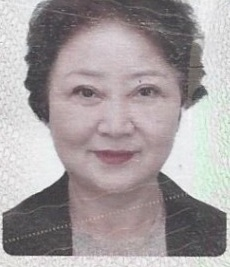
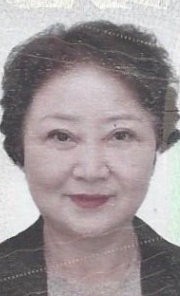
ech789

diff --git a/app/services/passport_portrait_service.py b/app/services/passport_portrait_service.py
@@ -8,6 +8,7 @@ import cv2
 
 from app.config import get_passport_portrait_output_dir
 from app.services.ocr_service import run_ocr_with_boxes
+from app.services.passport_face_match_service import detect_primary_face_bbox
 
 
 _FACE_CASCADE: Any | None = None
@@ -156,12 +157,23 @@ def _get_face_cascade():
 
 def preload_passport_portrait_runtime() -> None:
     _get_face_cascade()
+    try:
+        # Warm the YuNet detector used before the Haar fallback.
+        import numpy as np
+
+        detect_primary_face_bbox(np.zeros((640, 640, 3), dtype=np.uint8))
+    except Exception:
+        pass
 
 
 def _detect_face_candidates(
     image: Any,
     document_bbox: dict[str, int] | None = None,
 ) -> list[tuple[int, int, int, int]]:
+    yunet_faces = _detect_yunet_face_candidates(image)
+    if yunet_faces:
+        return yunet_faces
+
     grayscale = cv2.cvtColor(image, cv2.COLOR_BGR2GRAY)
     grayscale = cv2.equalizeHist(grayscale)
     cascade = _get_face_cascade()
@@ -214,6 +226,36 @@ def _detect_face_candidates(
         unique_faces.append(face)
 
     return unique_faces
+
+
+def _detect_yunet_face_candidates(image: Any) -> list[tuple[int, int, int, int]]:
+    try:
+        primary_face = detect_primary_face_bbox(image)
+    except Exception:
+        return []
+
+    if not primary_face:
+        return []
+
+    bbox = primary_face.get("bbox")
+    if not isinstance(bbox, dict):
+        return []
+
+    confidence = float(primary_face.get("confidence") or 0)
+    if confidence < 0.55:
+        return []
+
+    image_height, image_width = image.shape[:2]
+    left = max(0, int(round(float(bbox.get("left") or 0))))
+    top = max(0, int(round(float(bbox.get("top") or 0))))
+    width = max(1, int(round(float(bbox.get("width") or 0))))
+    height = max(1, int(round(float(bbox.get("height") or 0))))
+    right = min(image_width, left + width)
+    bottom = min(image_height, top + height)
+    if right <= left or bottom <= top:
+        return []
+
+    return [(left, top, right - left, bottom - top)]
 
 
 def _select_best_face(

diff --git a/app/services/passport_face_match_service.py b/app/services/passport_face_match_service.py
@@ -455,6 +455,20 @@ def _face_confidence(face_row: Any) -> float:
     return round(float(face_row[14]), 6)
 
 
+def detect_primary_face_bbox(image: Any) -> dict[str, Any] | None:
+    face_row, detect_meta = _detect_primary_face(image)
+    if face_row is None:
+        return None
+
+    return {
+        "bbox": _face_bbox(face_row),
+        "confidence": _face_confidence(face_row),
+        "face_count": detect_meta["count"],
+        "duration_ms": detect_meta["duration_ms"],
+        "runtime": _get_runtime()["runtime"],
+    }
+
+
 def _encode_image_to_base64(image: Any) -> tuple[str, str]:
     runtime = _get_runtime()
     cv2 = runtime["cv2"]